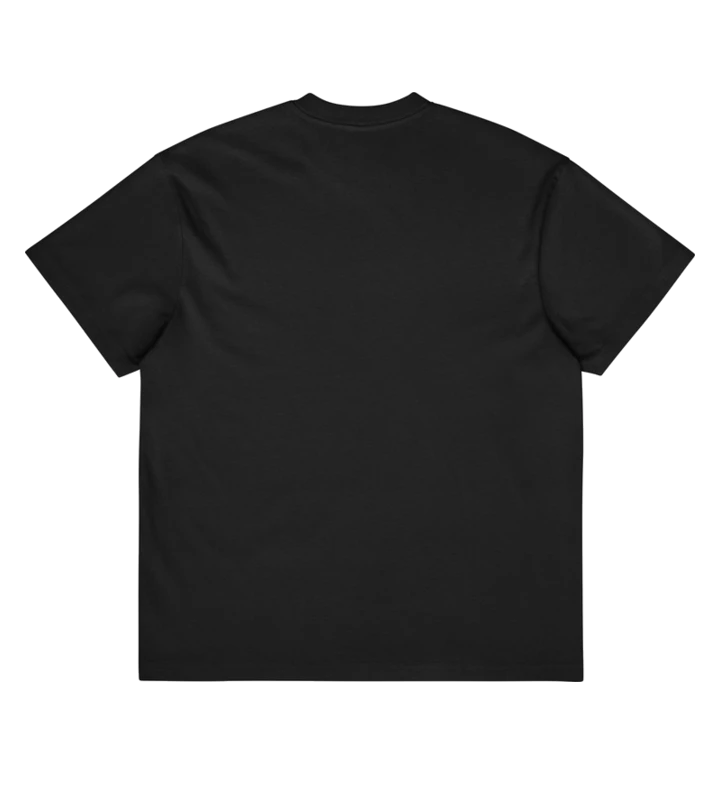
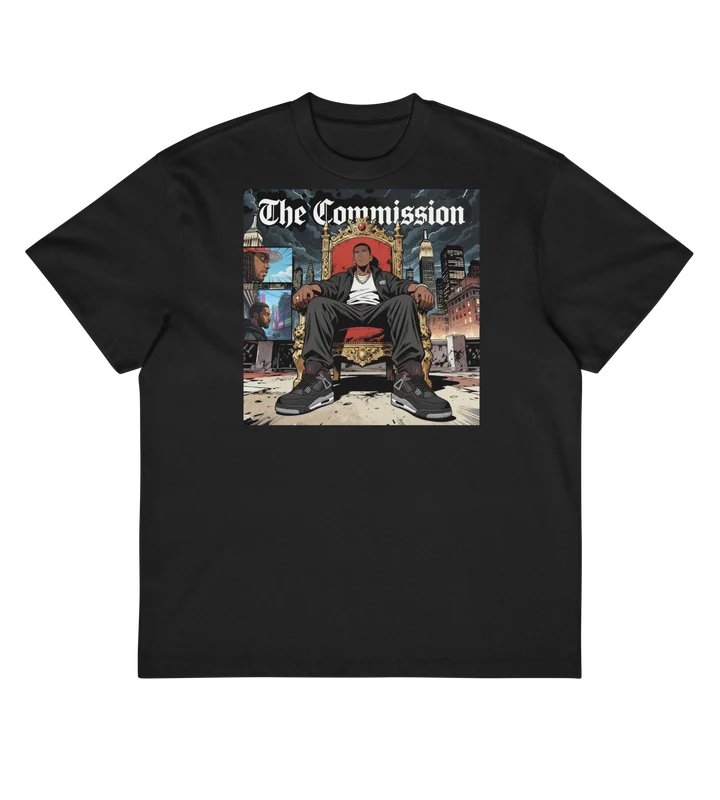
Commission box tee: show the printed front, not a blank shirt
The tee is printed with The Commission cover on the front, but its rack
picture was a blank and Printful's variant previews are the unprinted
backs. Add Printful mockup-generator renders of the cover on each
colour (flat front and worn) and use them on the rack, in the quick
view, on the product page gallery and in its Product JSON-LD.

diff --git a/src/lib/merch-mockups.ts b/src/lib/merch-mockups.ts
@@ -1,0 +1,40 @@
+/**
+ * Our own pictures for merch whose Printful previews show the side with no print.
+ *
+ * The Men's Commission box tee is printed on the front only (The Commission cover),
+ * but Printful's previews for it are the blank backs, so the shop showed a plain shirt.
+ * These are Printful mockup-generator renders of that cover at full print width on each
+ * colour of the real blank: a flat front, and the same shirt worn.
+ *
+ * Keyed by Printful sync product id, then colour as Printful names it.
+ */
+interface ColorShots {
+    front: string;
+    worn: string;
+}
+
+const COMMISSION_TEE = "/shop-mockups/commission-box-tee";
+
+const SHOTS: Record<number, Record<string, ColorShots>> = {
+    401419855: {
+        Black: { front: `${COMMISSION_TEE}/black-front.webp`, worn: `${COMMISSION_TEE}/black-worn.webp` },
+        "Navy Blazer": { front: `${COMMISSION_TEE}/navy-blazer-front.webp`, worn: `${COMMISSION_TEE}/navy-blazer-worn.webp` },
+        "Vintage Black": { front: `${COMMISSION_TEE}/vintage-black-front.webp`, worn: `${COMMISSION_TEE}/vintage-black-worn.webp` },
+        "Vintage White": { front: `${COMMISSION_TEE}/vintage-white-front.webp`, worn: `${COMMISSION_TEE}/vintage-white-worn.webp` },
+        White: { front: `${COMMISSION_TEE}/white-front.webp`, worn: `${COMMISSION_TEE}/white-worn.webp` },
+    },
+};
+
+/** The printed front in this colour, when we have our own picture of it */
+export function colorFront(productId: number, color: string | null | undefined): string | undefined {
+    if (!color) return undefined;
+    return SHOTS[productId]?.[color]?.front;
+}
+
+/** Every picture we have for the product: each colour's front, then each worn shot */
+export function productGallery(productId: number): string[] | undefined {
+    const shots = SHOTS[productId];
+    if (!shots) return undefined;
+    const colors = Object.values(shots);
+    return [...colors.map((c) => c.front), ...colors.map((c) => c.worn)];
+}

diff --git a/src/components/shop/ProductDetails.tsx b/src/components/shop/ProductDetails.tsx
@@ -18,6 +18,7 @@ import {
 import Link from "next/link";
 import { useCart } from "@/context/CartContext";
 import type { PrintfulProductDetails } from "@/lib/printful";
+import { colorFront, productGallery } from "@/lib/merch-mockups";
 
 interface ProductDetailsProps {
     product: PrintfulProductDetails;
@@ -118,8 +119,9 @@ export function ProductDetails({ product }: ProductDetailsProps) {
         )
     ) as string[];
 
-    const images = Array.from(
-        new Set([sync_product.thumbnail_url, ...allPreviewImages])
+    // Our own fronts and worn shots replace previews that show the unprinted side
+    const images = (productGallery(sync_product.id) ??
+        Array.from(new Set([sync_product.thumbnail_url, ...allPreviewImages]))
     ).filter(Boolean) as string[];
 
     // Sync selected size if color changes (ensures color/size combination exists)
@@ -147,7 +149,9 @@ export function ProductDetails({ product }: ProductDetailsProps) {
             return colorMatch && sizeMatch;
         }) || sync_variants[0];
 
+    const ownFront = colorFront(sync_product.id, activeVariant?.color ?? selectedColor);
     const variantImage =
+        ownFront ||
         activeVariant?.files?.find((f) => f.type === "mockup")?.preview_url ||
         sync_product.thumbnail_url ||
         activeVariant?.product?.image ||
@@ -187,6 +191,7 @@ export function ProductDetails({ product }: ProductDetailsProps) {
                 currency: activeVariant.currency,
                 quantity: 1,
                 thumbnail:
+                    ownFront ||
                     activeVariant.files?.find((f) => f.type === "mockup")?.preview_url ||
                     sync_product.thumbnail_url ||
                     activeVariant.product?.image ||

diff --git a/src/components/shop/QuickViewDialog.tsx b/src/components/shop/QuickViewDialog.tsx
@@ -7,6 +7,7 @@ import useSWR from "swr";
 import { ArrowUpRight, Check, ShoppingBag, X } from "lucide-react";
 import { useCart } from "@/context/CartContext";
 import type { PrintfulProductDetails } from "@/lib/printful";
+import { colorFront } from "@/lib/merch-mockups";
 import {
     extractRackOptions,
     formatRackPrice,
@@ -116,8 +117,10 @@ function QuickViewContent({ item, onClose }: { item: RackProductItem; onClose: (
     const variantPreviewUrl = activeVariant?.files?.find(
         (f) => f.type === "preview" || f.type === "mockup"
     )?.preview_url;
+    // Where Printful's previews show the unprinted side, we have our own front for every colour
+    const ownFront = colorFront(item.product.id, activeColor);
     const previewSrc =
-        !isDefaultColor && variantPreviewUrl ? variantPreviewUrl : item.meta.cutoutSrc;
+        ownFront ?? (!isDefaultColor && variantPreviewUrl ? variantPreviewUrl : item.meta.cutoutSrc);
 
     const handleAddToCart = () => {
         if (!activeVariant || !Number.isFinite(unitPrice) || unitPrice <= 0) return;
@@ -131,7 +134,7 @@ function QuickViewContent({ item, onClose }: { item: RackProductItem; onClose: (
             price: unitPrice,
             currency: activeVariant.currency || item.currency || "USD",
             quantity: 1,
-            thumbnail: variantPreviewUrl || item.product.thumbnail_url || item.meta.cutoutSrc,
+            thumbnail: ownFront || variantPreviewUrl || item.product.thumbnail_url || item.meta.cutoutSrc,
         });
 
         setJustAdded(true);

diff --git a/src/app/shop/product/[id]/page.tsx b/src/app/shop/product/[id]/page.tsx
@@ -1,5 +1,6 @@
 import { SITE_URL } from "@/lib/site";
 import { getPrintfulProduct } from "@/lib/printful";
+import { productGallery } from "@/lib/merch-mockups";
 import { ProductDetails } from "@/components/shop/ProductDetails";
 import { notFound } from "next/navigation";
 import type { Metadata } from "next";
@@ -68,13 +69,15 @@ export default async function ProductPage({ params }: PageProps) {
 
     // Build Product + Offer JSON-LD schema
     const { sync_product, sync_variants } = productData;
+    const ownImages = productGallery(sync_product.id)?.map((src) => `${SITE_URL}${src}`);
     const allImages = [
         sync_product.thumbnail_url,
-        ...sync_variants.flatMap(v =>
-            v.files
-                ?.filter(f => f.type === "mockup" || f.type === "preview")
-                .map(f => f.preview_url) ?? []
-        ),
+        ...(ownImages ??
+            sync_variants.flatMap(v =>
+                v.files
+                    ?.filter(f => f.type === "mockup" || f.type === "preview")
+                    .map(f => f.preview_url) ?? []
+            )),
     ].filter(Boolean);
 
     const offers = sync_variants.map(v => ({
